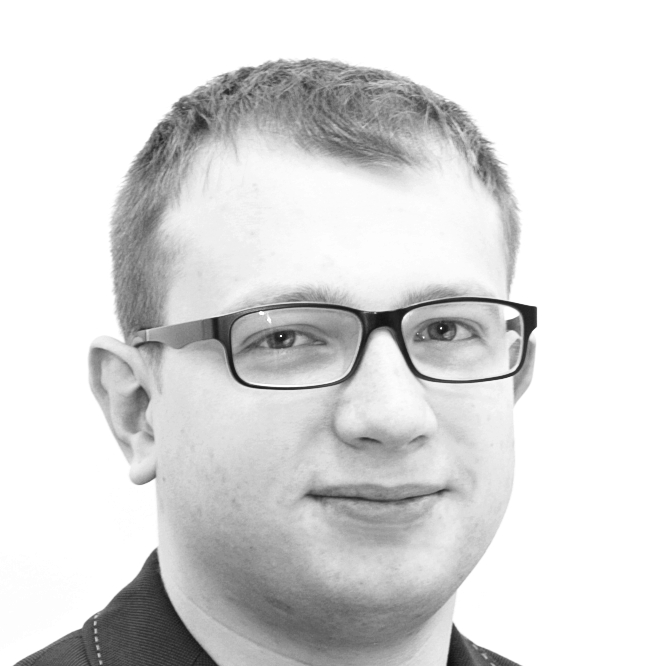
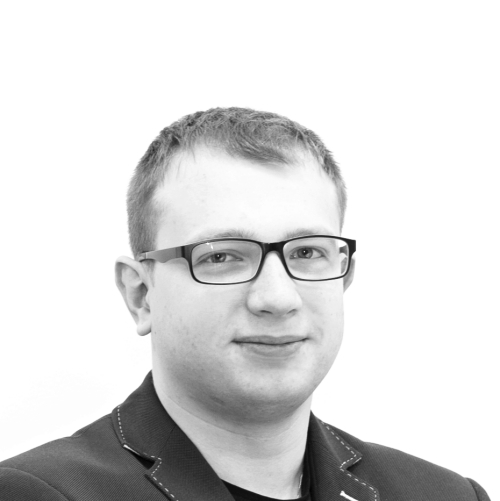
Fixed Michal P and Ania

diff --git a/app/src/app/home/components/team/team.scss b/app/src/app/home/components/team/team.scss
@@ -143,11 +143,13 @@
 }
 .ania{
   background: url('/public/images/people/aniak.jpg') center center no-repeat;
-  background-size: cover;
+  background-size: 130%;
+  background-position: -10px -27px;
 }
 .michal_k{
   background: url('/public/images/people/michalk.jpg') center center no-repeat;
-  background-size: cover;
+  background-size: 115%;
+  background-position: -5px -12px;
 }
 .michal_p{
   background: url('/public/images/people/michalp.png') center center no-repeat;
